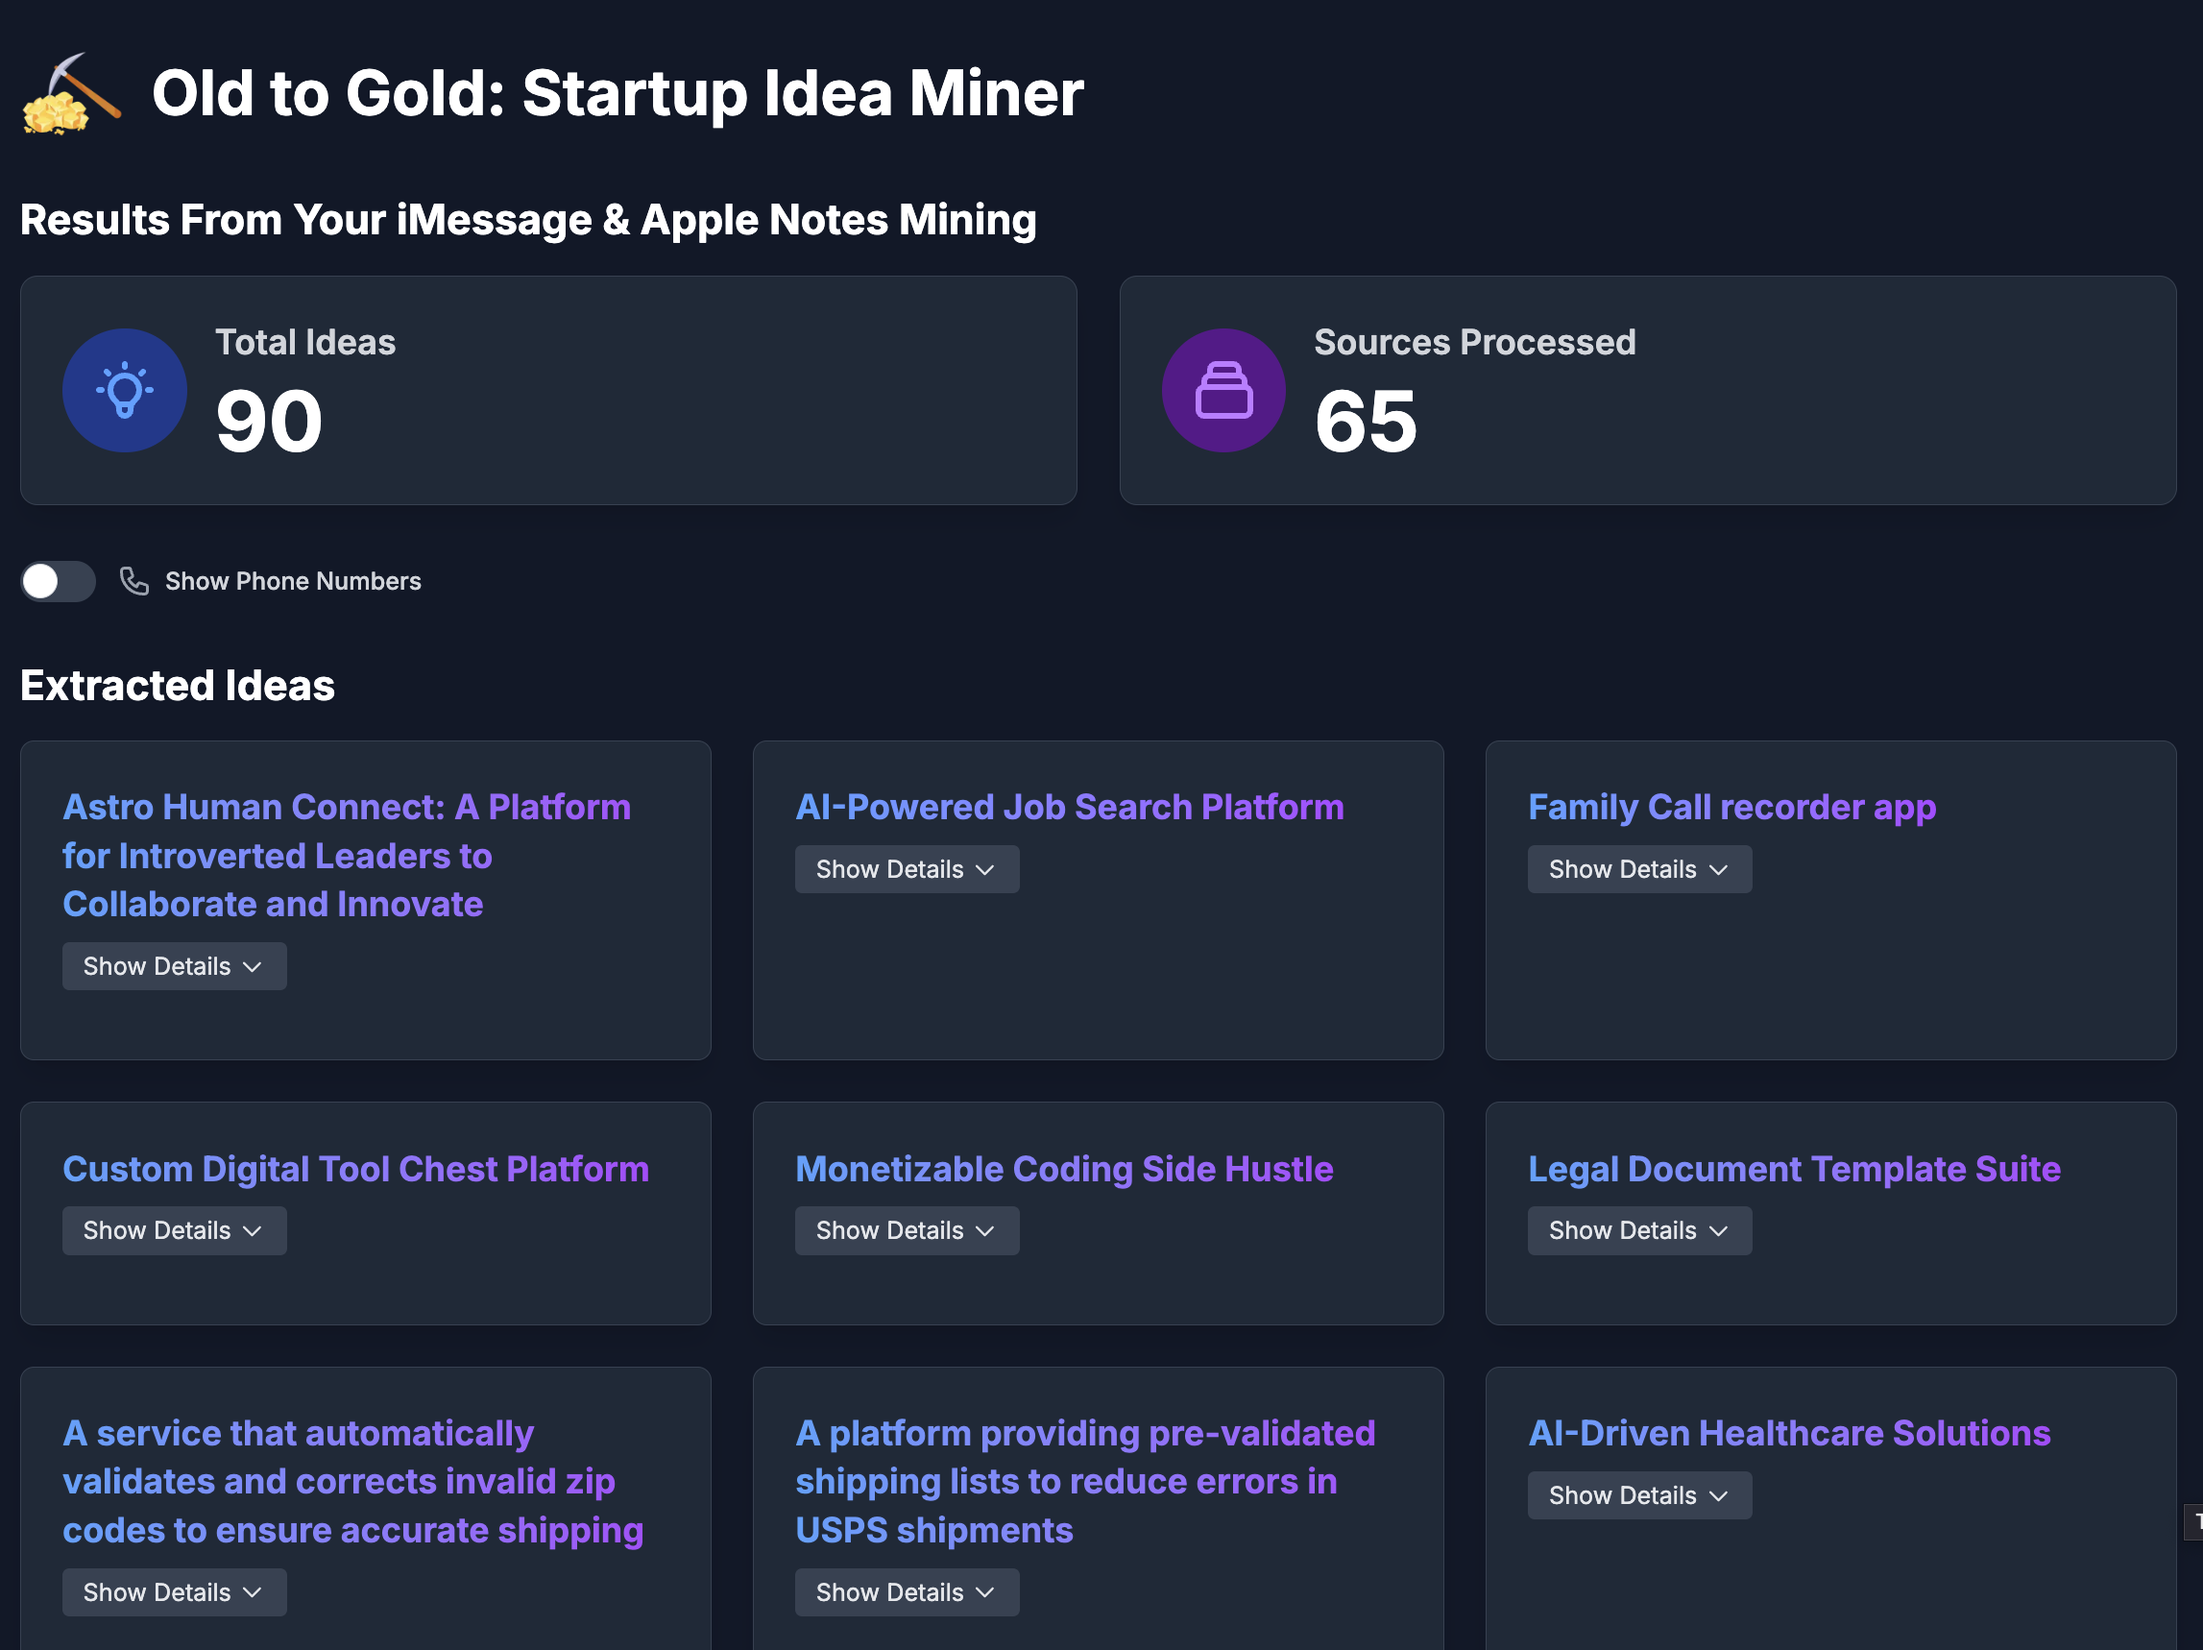
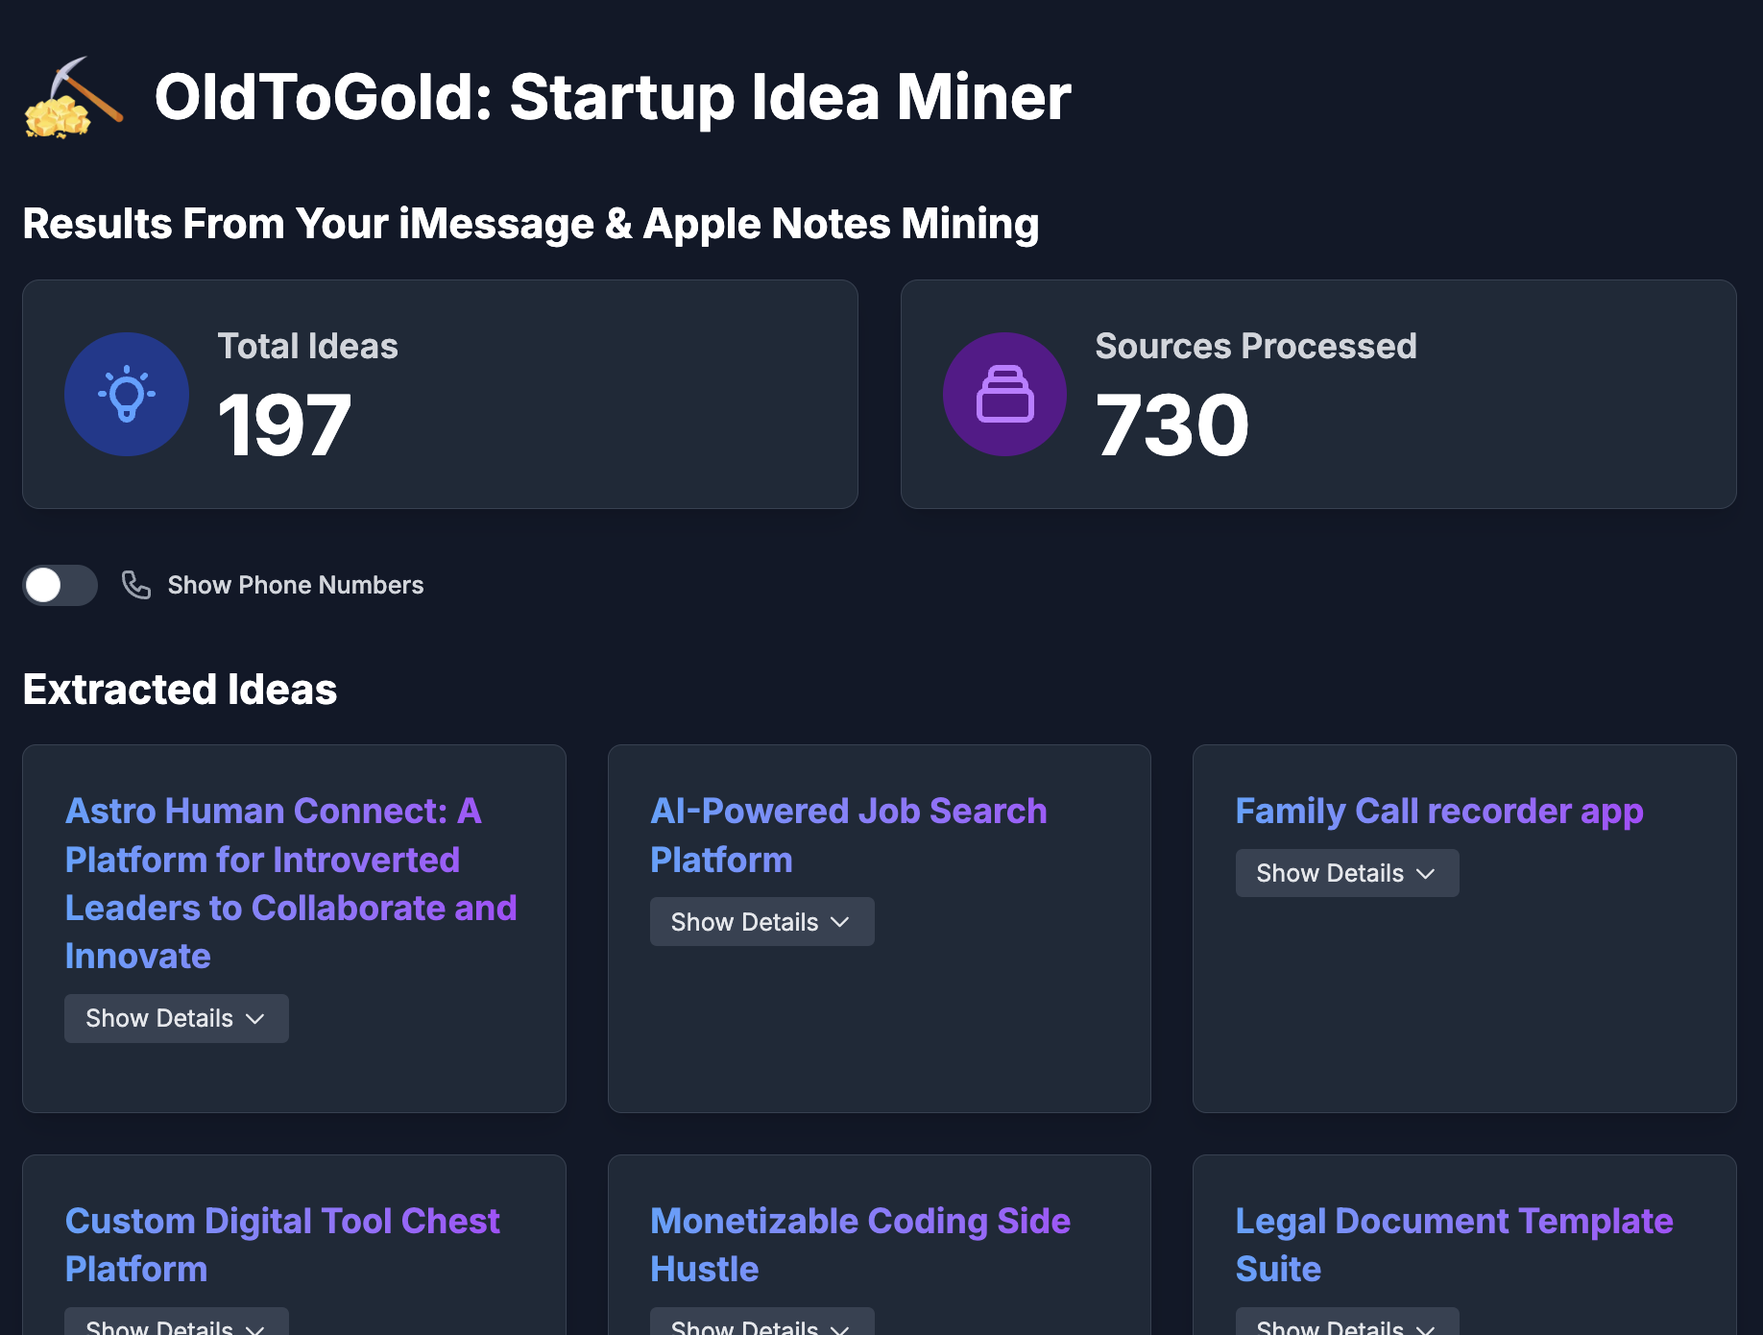
Rebrand project from "Old to Gold" to "OldToGold"
- Update project name consistently across README, layout, page, and example files
- Modify logo alt text and headings to reflect new branding
- Add note about extraction process duration in README
- Update dashboard screenshot to reflect new branding

diff --git a/app/page.tsx b/app/page.tsx
@@ -34,12 +34,12 @@ export default function Home() {
       <div className="flex items-center gap-4 mb-8">
         <Image 
           src="/logo.webp" 
-          alt="Old to Gold Logo" 
+          alt="OldToGold Logo" 
           width={60} 
           height={60} 
           className="rounded-md"
         />
-        <h1 className="text-4xl font-bold">Old to Gold: Startup Idea Miner</h1>
+        <h1 className="text-4xl font-bold">OldToGold: Startup Idea Miner</h1>
       </div>
       
       {loading ? (

diff --git a/examples/imessage/example-conversation.html b/examples/imessage/example-conversation.html
@@ -158,7 +158,7 @@ a[href^="#"] {
 		<div class="received">
 			<div class="sender">Alice</div>
 			<div class="contents">
-				<p>Great idea! We could call it "Old to Gold" since we're turning old conversations into valuable insights</p>
+				<p>Great idea! We could call it "OldToGold" since we're turning old conversations into valuable insights</p>
 			</div>
 		</div>
 		<div class="timestamp">March 1, 2023 at 10:25 AM</div>

diff --git a/app/layout.tsx b/app/layout.tsx
@@ -5,7 +5,7 @@ import "./globals.css";
 const inter = Inter({ subsets: ["latin"] });
 
 export const metadata: Metadata = {
-  title: "Old to Gold: Startup Idea Miner",
+  title: "OldToGold: Startup Idea Miner",
   description: "Extract startup ideas from your iMessage chats and Apple Notes",
 };
 

diff --git a/README.md b/README.md
@@ -1,4 +1,4 @@
-# Old to Gold: Startup Idea Miner
+# OldToGold: Startup Idea Miner
 
 Extract potential startup ideas from your iMessage chats, Apple Notes, and Skype conversations using local LLM processing.
 
@@ -7,7 +7,7 @@ Extract potential startup ideas from your iMessage chats, Apple Notes, and Skype
 ![Palmer Luckey's tweet about mining old messages for ideas](/public/palmer-tweet.png)
 *Inspired by [this conversation on X/Twitter](https://x.com/PalmerLuckey/status/1896037835452662069) where Palmer Luckey discussed finding startup ideas in old chat logs.*
 
-Old to Gold is a tool that helps you discover potential startup ideas hidden in your everyday conversations and notes. It uses a local LLM (Language Model) to analyze your iMessage chats, Apple Notes, and Skype conversations, identifying concepts that could be developed into business opportunities.
+OldToGold is a tool that helps you discover potential startup ideas hidden in your everyday conversations and notes. It uses a local LLM (Language Model) to analyze your iMessage chats, Apple Notes, and Skype conversations, identifying concepts that could be developed into business opportunities.
 
 ## Features
 
@@ -117,6 +117,7 @@ This is the recommended way to export your Apple Notes for free! The app is priv
    - The extraction process saves progress after each file
    - If interrupted, running again will resume from the last unprocessed file
    - You can safely stop and restart the process at any time
+   - **Note:** For large chat histories, the process can take several dozen seconds per file. It's recommended to run extractions overnight or during periods when you don't need your computer for other intensive tasks.
 
 2. **View results**:
    ```bash
@@ -161,7 +162,7 @@ For more details about the example files, see the [examples/README.md](examples/
 
 ## Application Architecture
 
-Old to Gold is built with Next.js 15+, using a combination of server and client components:
+OldToGold is built with Next.js 15+, using a combination of server and client components:
 
 ### Server Components
 Server components handle data fetching and processing, running on the server and sending HTML to the client.

diff --git a/examples/README.md b/examples/README.md
@@ -1,6 +1,6 @@
-# Old to Gold Example Files
+# OldToGold Example Files
 
-This directory contains example files that demonstrate the expected format for each data source that the Old to Gold idea extraction tool can process.
+This directory contains example files that demonstrate the expected format for each data source that the OldToGold idea extraction tool can process.
 
 ## Directory Structure
 
